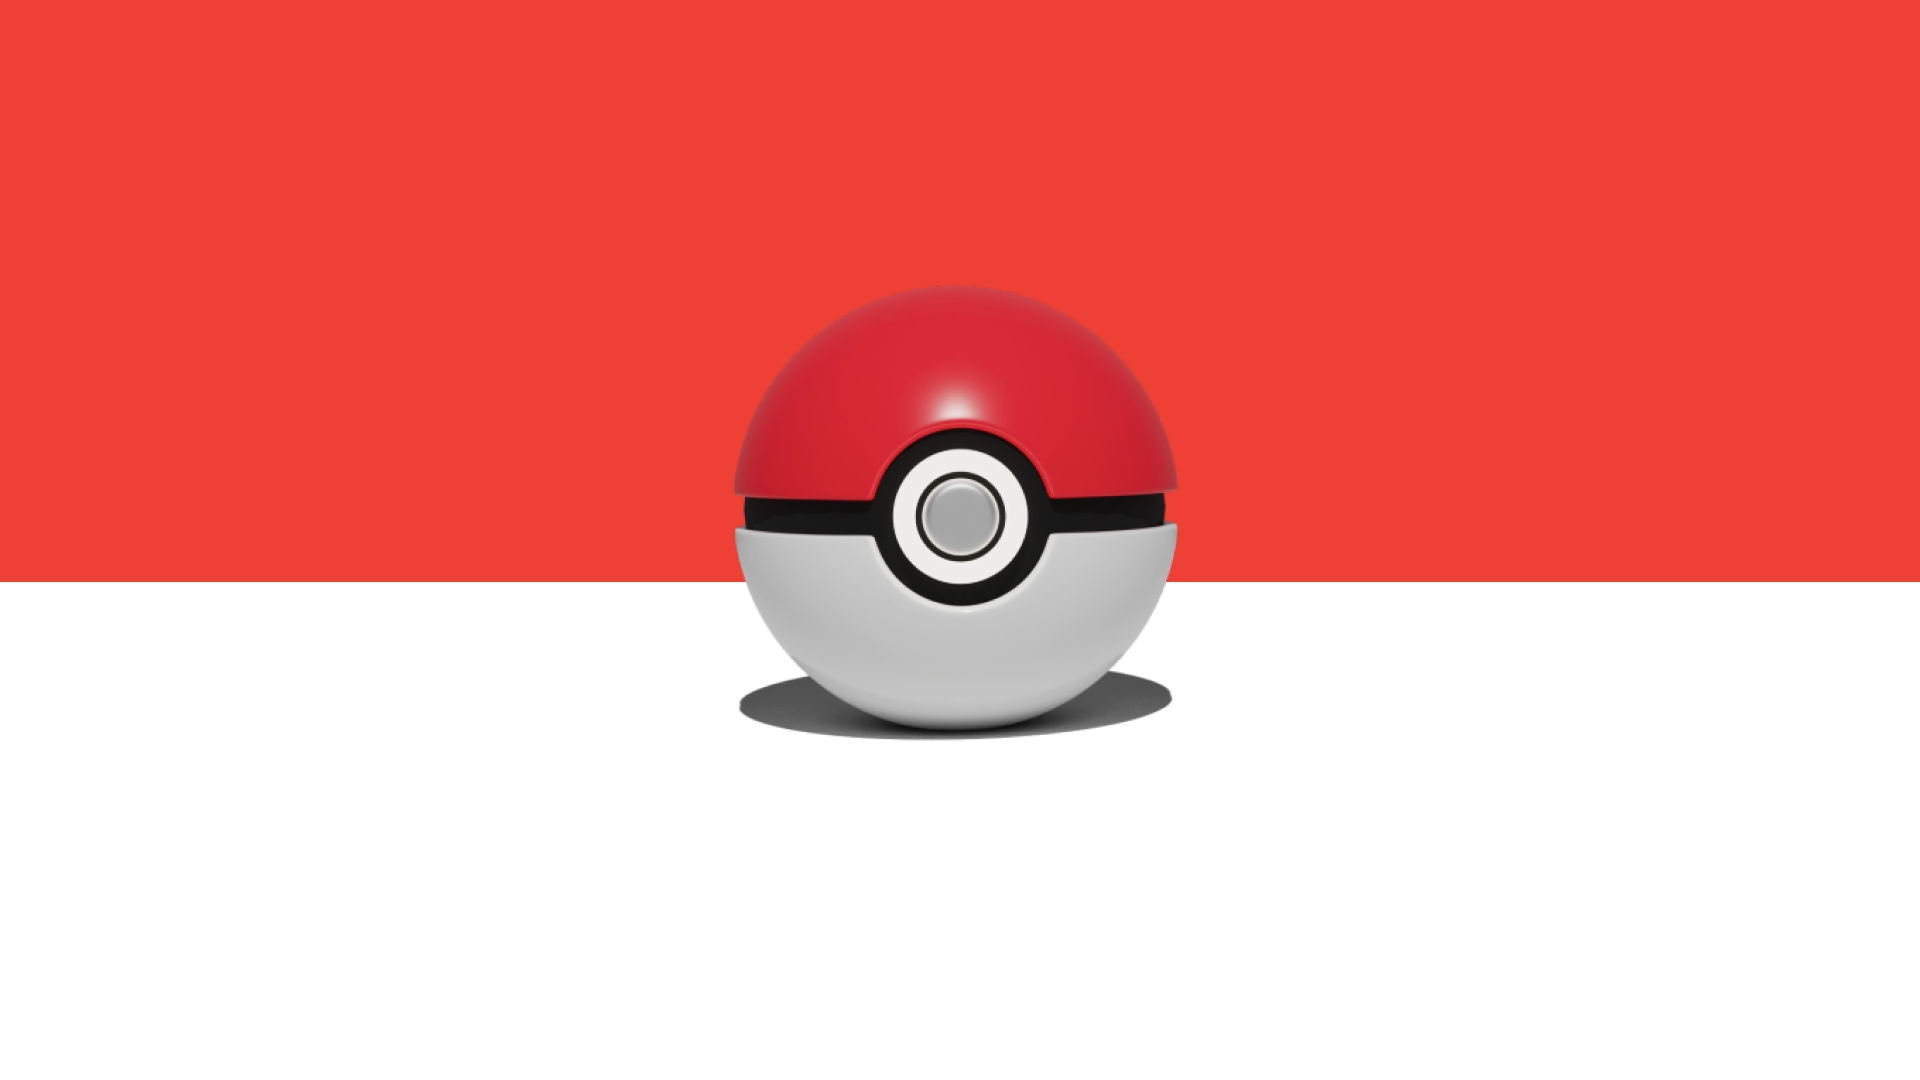
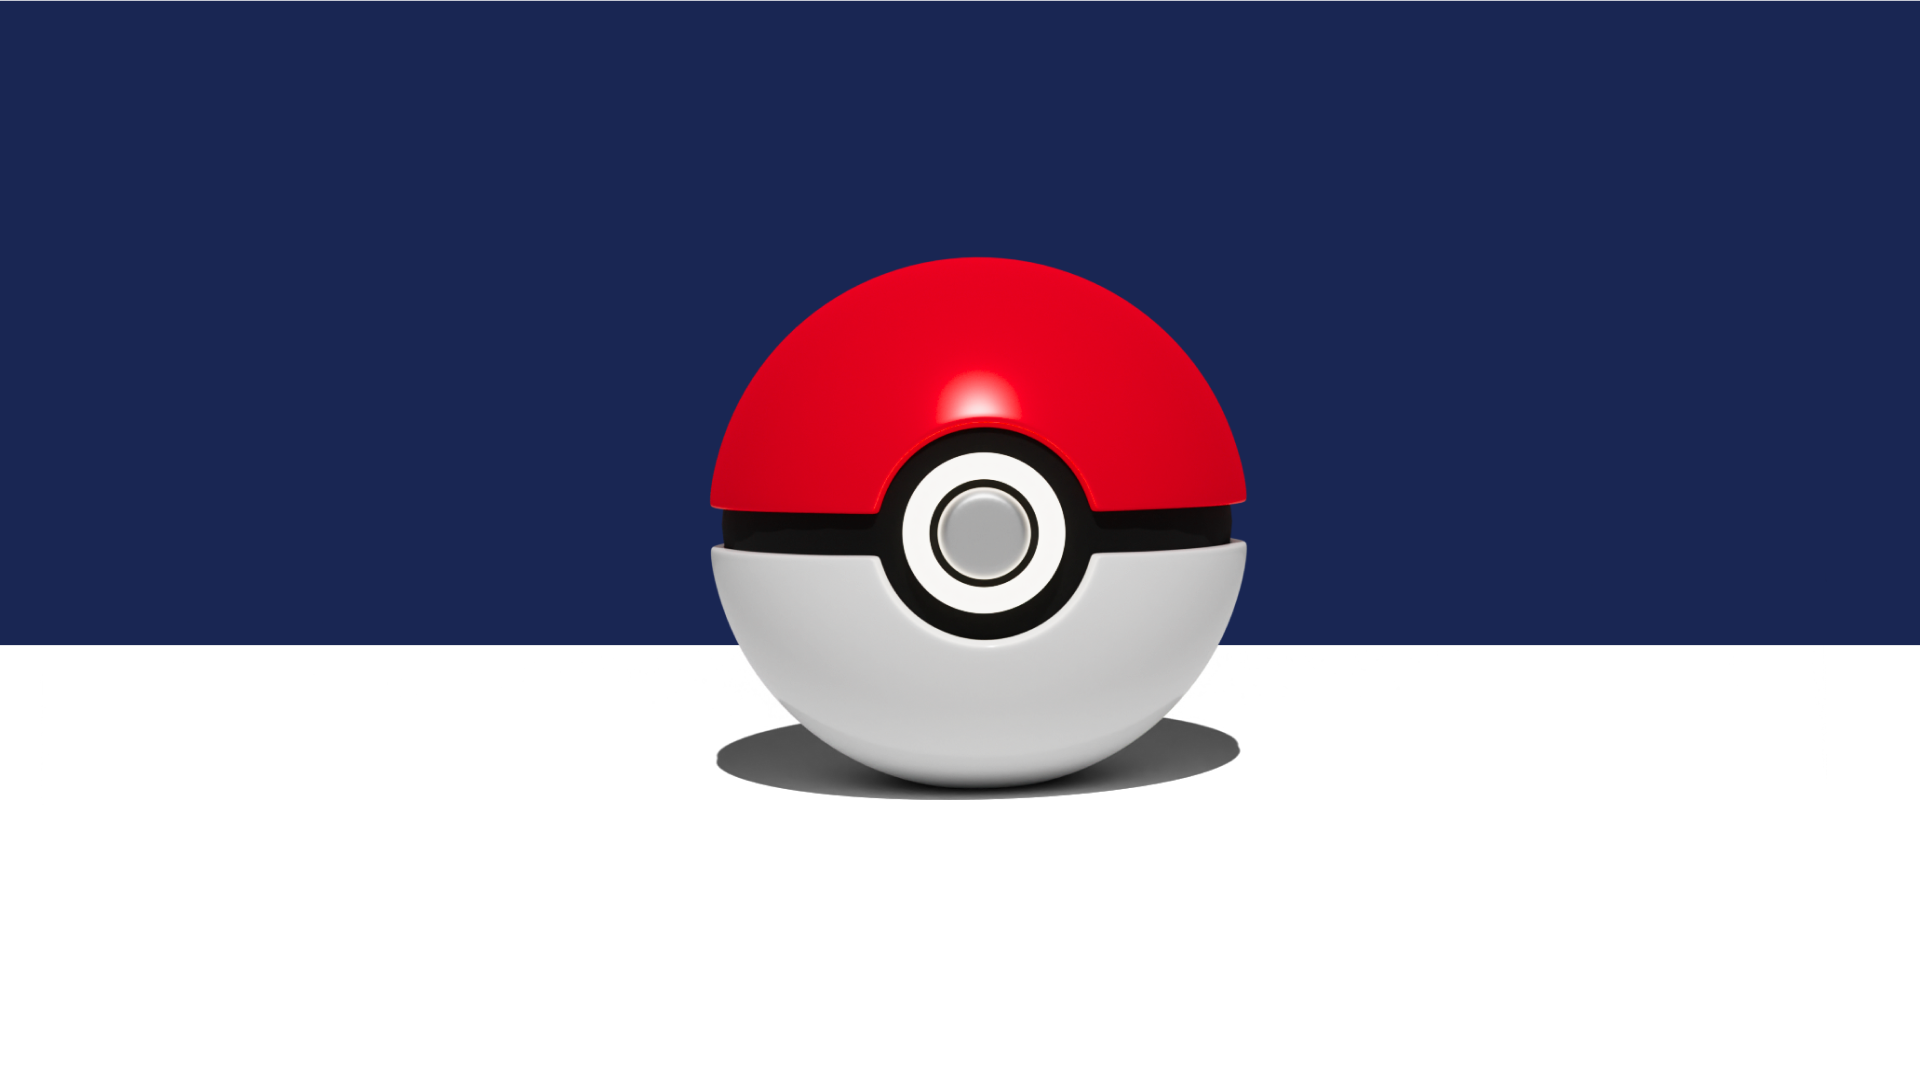
alterei background

diff --git a/front-end/src/components/login/Login.js b/front-end/src/components/login/Login.js
@@ -1,5 +1,5 @@
 import "./login.css";
-import pokebytesLogo from "../../images/pokebytes.png";
+
 import login from "../../icons/UserIcon.png";
 
 
@@ -13,9 +13,6 @@ function Login(props) {
   return (
     <div className="backgound">
 
-      <div className="pokebytes">
-        <img className="logo" src={pokebytesLogo} />
-      </div>
       <div className="buttons">
 {/*         <input 
           className="inputUsername"

diff --git a/front-end/src/components/login/login.css b/front-end/src/components/login/login.css
@@ -1,5 +1,5 @@
 .backgound {
-    background-image: url('../../images/BACKGROUND1.png');
+    background-image: url('../../images/background_gradient.png');
     height: 100vh;
     background-attachment: fixed;
     background-position: center center;
@@ -90,7 +90,7 @@
 
 .buttonLogin:hover,
 .buttonSignUp:hover {
-    background-color: #58585A;
+    background-color: #FAFF00;
     cursor: pointer;
     color: #F28680;
 

diff --git a/front-end/src/components/home page/profile.js b/front-end/src/components/home page/profile.js
@@ -3,7 +3,7 @@ import React, { useState } from 'react';
 import "./profile.css"
 
 //imagem
-import imagem from "../../images/BACKGROUND.png"
+import imagem from "../../images/background.png"
 
 function Profile(){
     const [userName, setUserName] = useState('Andrezza');

diff --git a/front-end/src/components/home page/HomePage.css b/front-end/src/components/home page/HomePage.css
@@ -1,5 +1,5 @@
 .background {
-    background-image: url('../../images/BACKGROUND.png');
+    background-image: url('../../images/background.png');
     height: 100vh;
     background-attachment: fixed;
 
